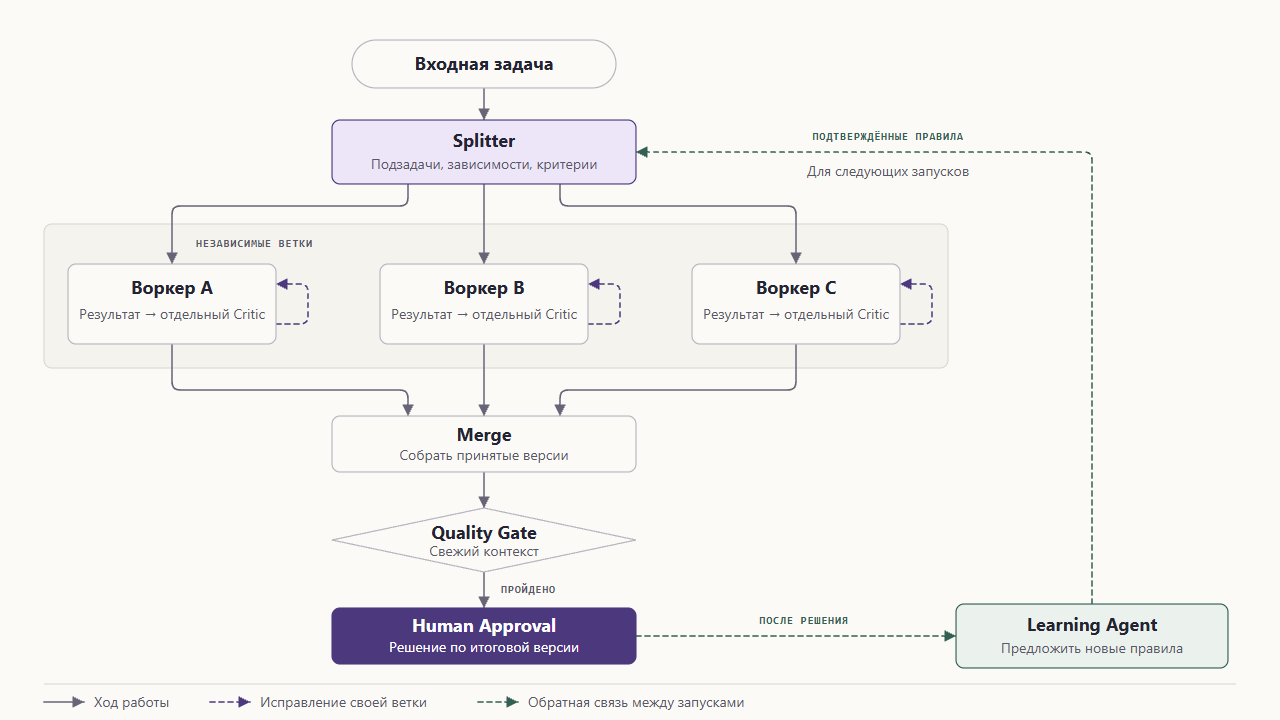
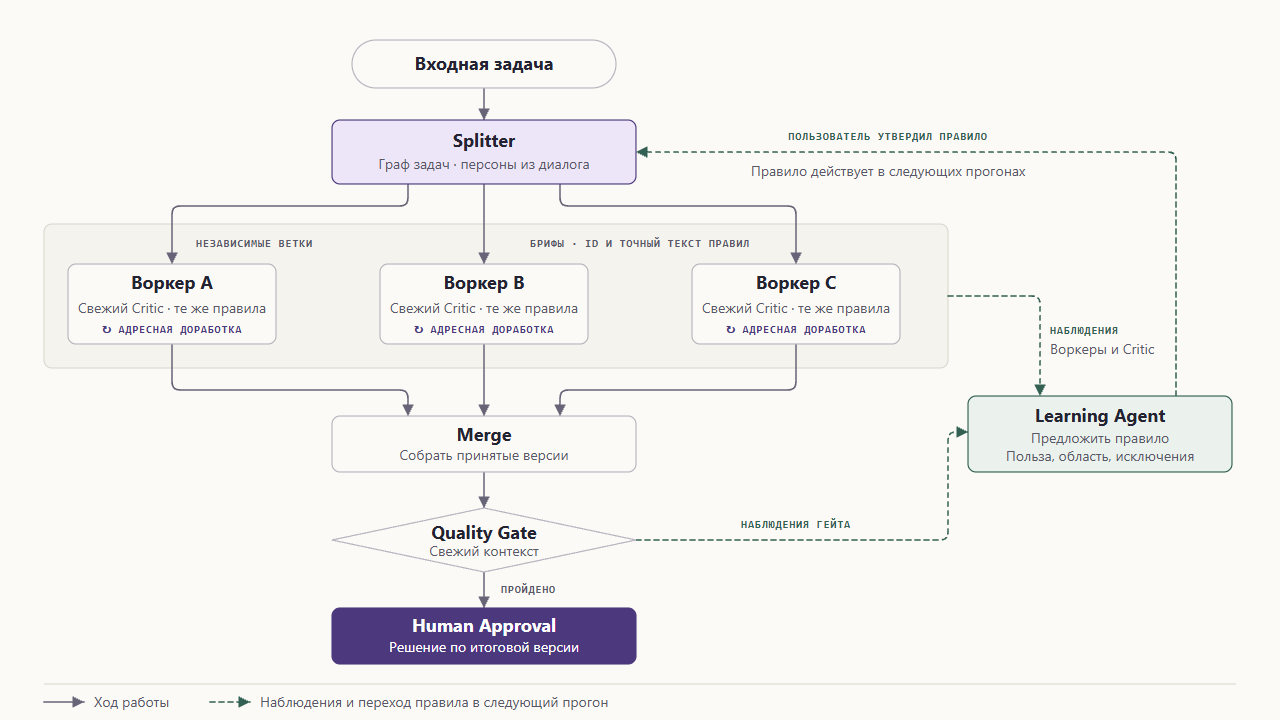
Refresh Workmesh README diagrams for 1.1

diff --git a/README.md b/README.md
@@ -14,8 +14,14 @@ Workmesh означает «сеть совместной работы». Ски
 
 ## Как идёт работа
 
-![Задача делится на ветки. Каждая проходит проверку перед сборкой, а итог утверждает человек.](docs/images/workflow.png)
+![Splitter назначает проектные персоны и передаёт правила в брифы. Свежий Critic проверяет каждую ветку. Learning Agent собирает наблюдения для будущих правил.](docs/images/workflow.png)
 
 [Как Workmesh выбирает между субагентом и отдельной сессией](docs/images/dispatch.png)
+
+## Как закрывается прогон
+
+![После Quality Gate пользователь утверждает версию. Workmesh проверяет порученные финальные действия и сворачивает закрытый прогон в summary.md.](docs/images/closure.png)
+
+При ожидании решения, доработке или сбое push рабочий трейс сохраняется для продолжения. Явное закрытие незавершённой задачи тоже оставляет сводку с причиной и остатком работы.
 
 [Требования 1.1.0](docs/workmesh-1.1.0.md) · [Трейсы и закрытие прогонов](references/traces.md)
